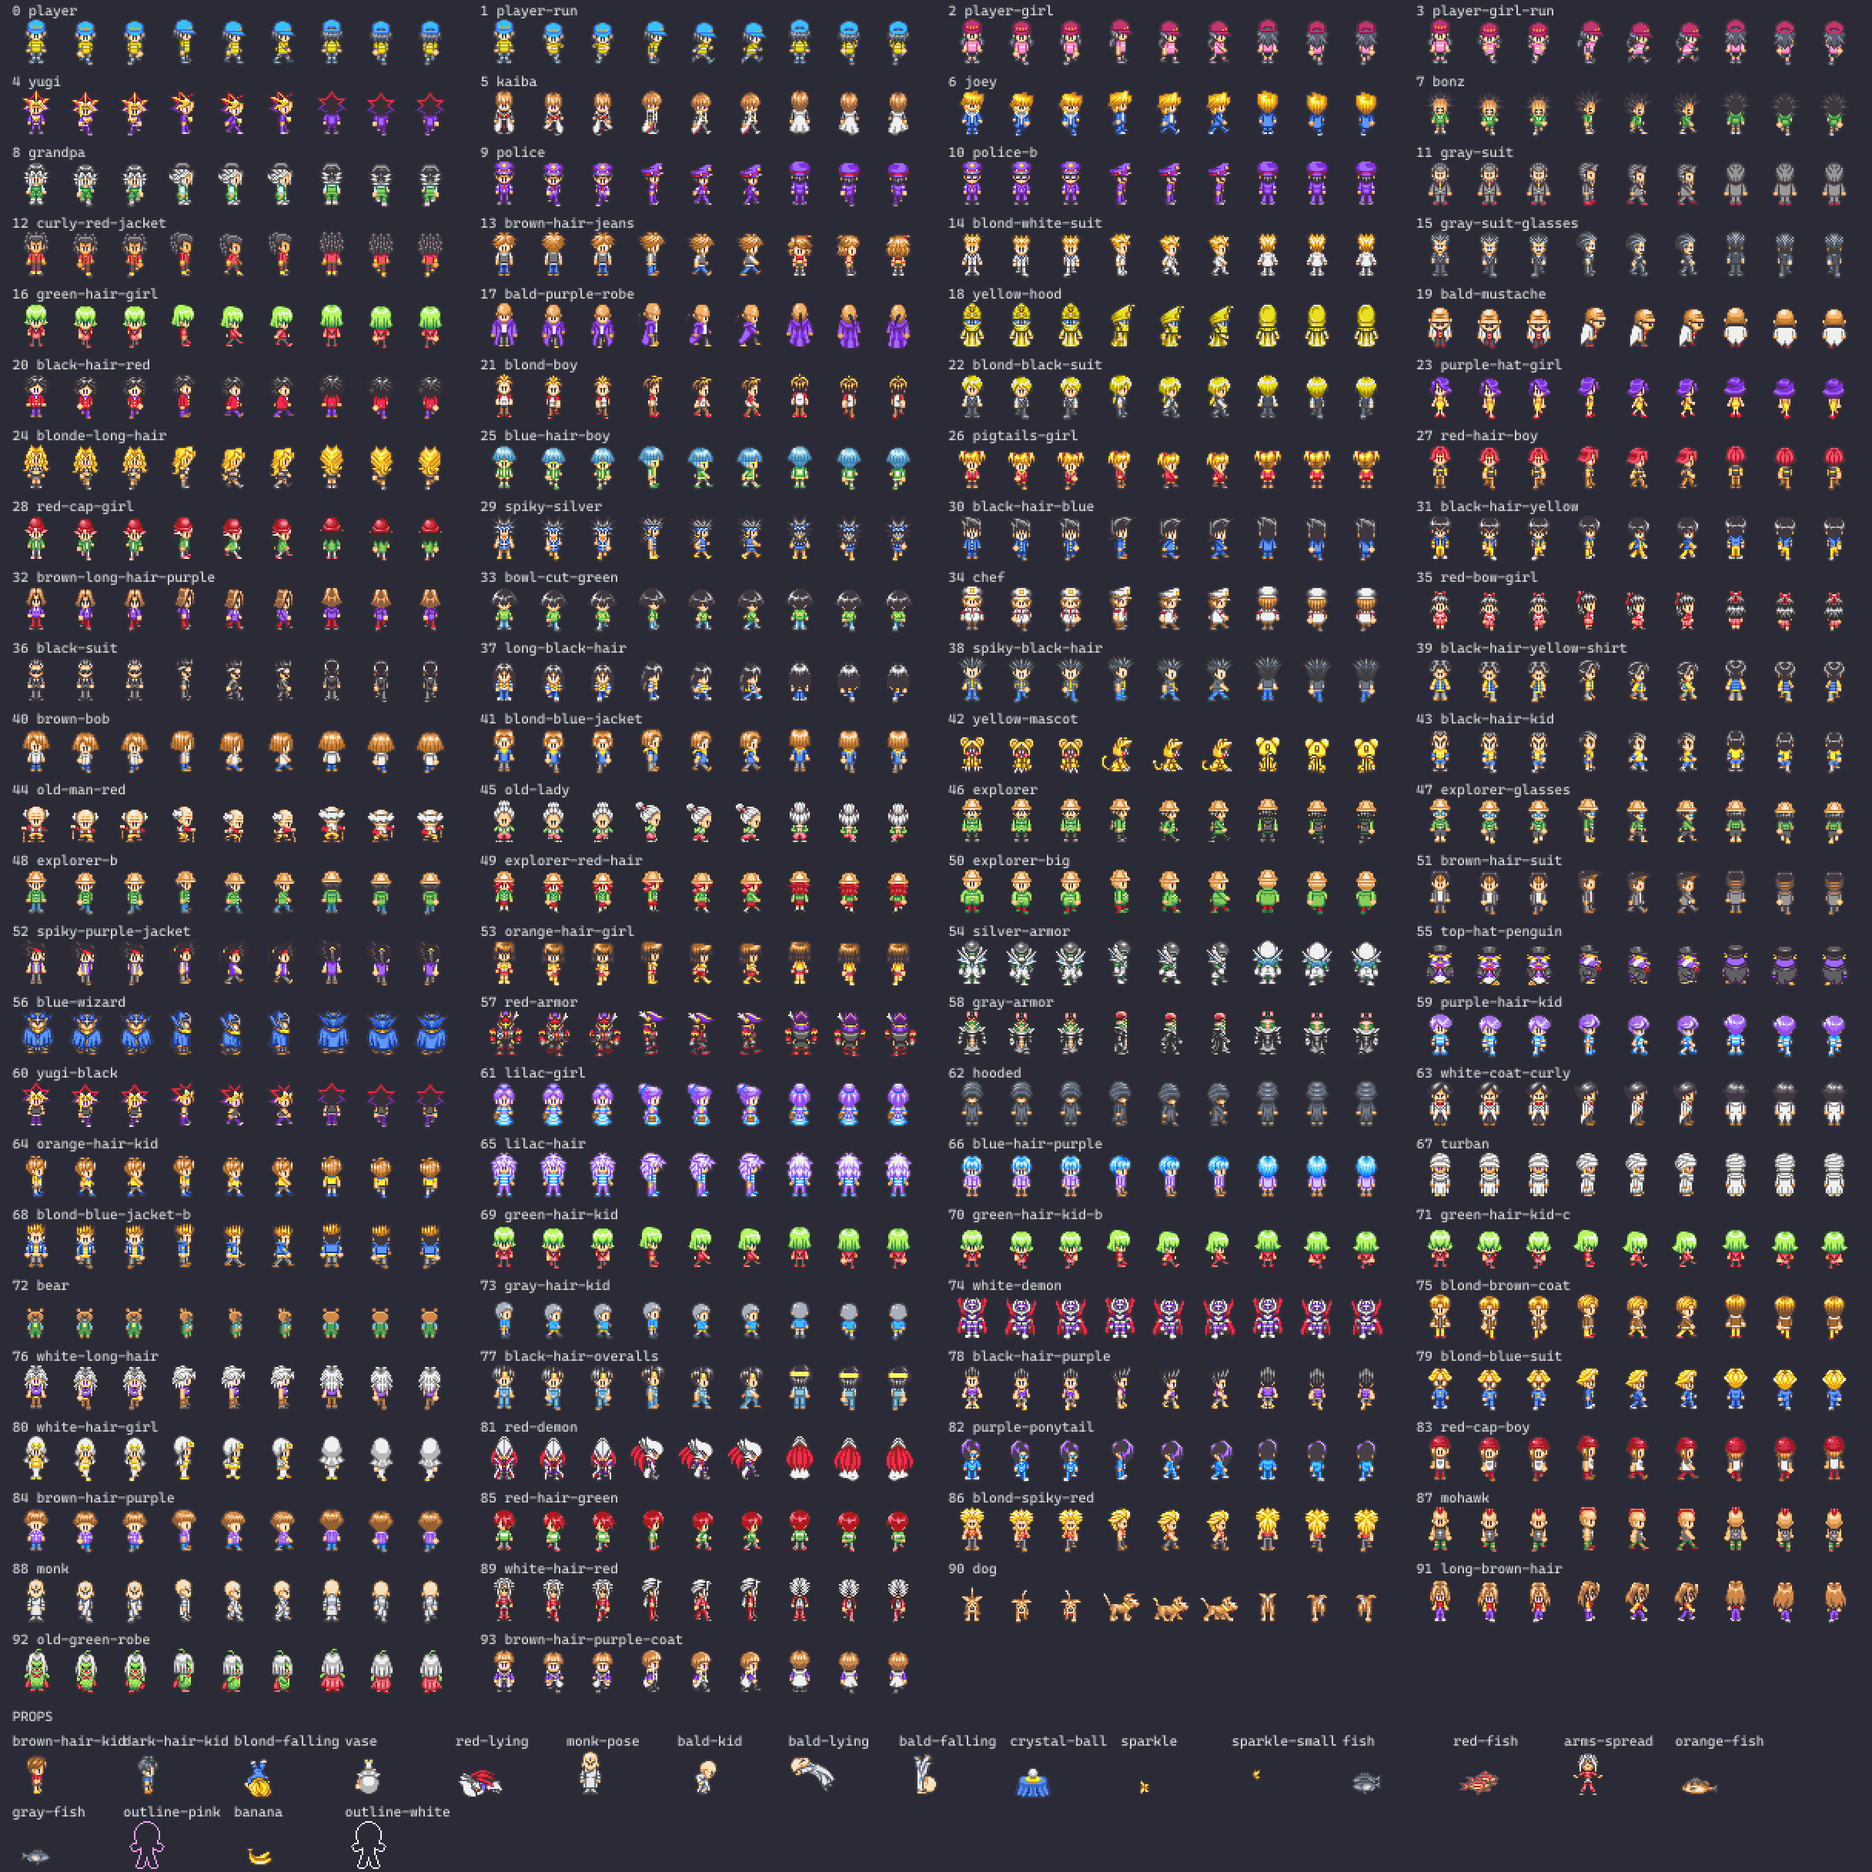
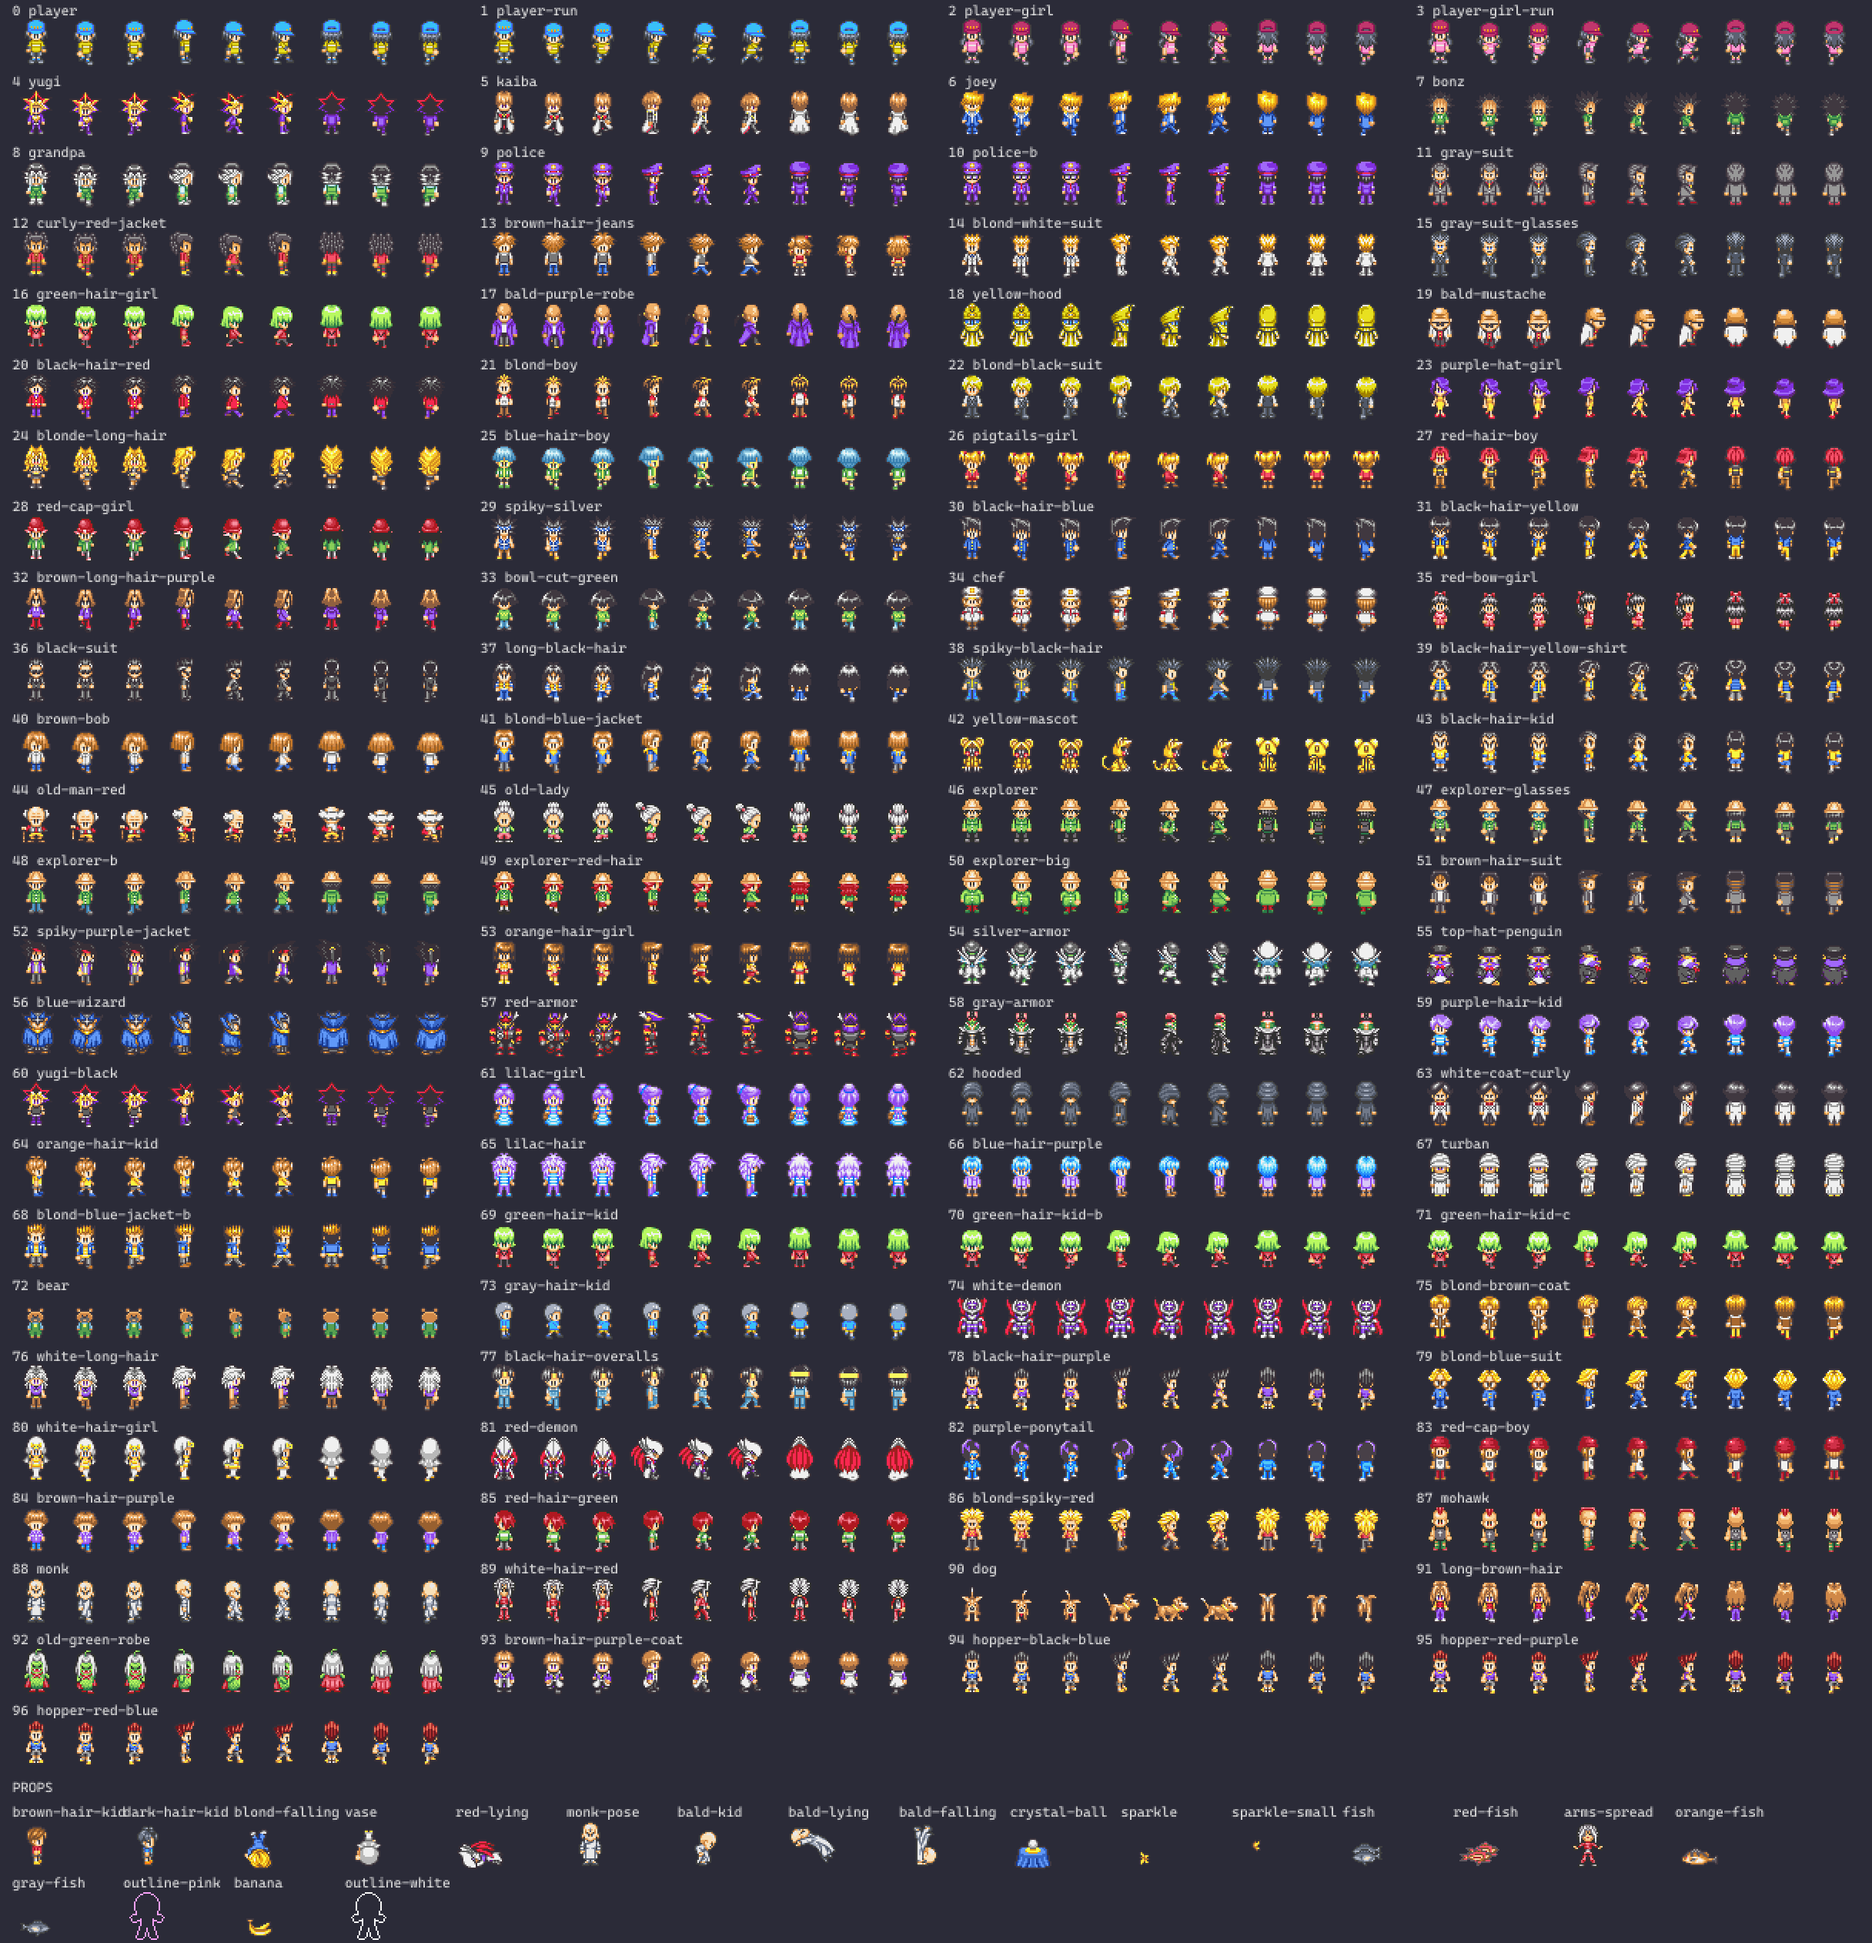
Four hedge ambushers: hair and shirt colour variants
The maze picks its ambusher at random from four: the black-hair-purple
kid in black/red hair x purple/blue shirt. build-characters can now make
recoloured variants ({ recolor: base, hair, shirt } swaps the base's
colour ramps from "recolors"; hair only on the head, outlines and eyes
kept), and each variant gets its own ambush sheet.

diff --git a/src/overworld/npcs.ts b/src/overworld/npcs.ts
@@ -33,5 +33,11 @@ export interface AmbushDef {
 
 // Hedge ambushers by map. Placeholder name and text.
 export const AMBUSHERS: Record<string, AmbushDef[]> = {
-  maze: [{ name: "Hedge Hopper", sprite: "black-hair-purple", text: "Gotcha! Nobody gets through my maze without a duel!" }],
+  // One of them at random each time: the same kid in 2 hair x 2 shirt colours (characters.json "recolors").
+  maze: [
+    { name: "Hedge Hopper", sprite: "black-hair-purple", text: "Gotcha! Nobody gets through my maze without a duel!" },
+    { name: "Bramble", sprite: "hopper-black-blue", text: "Surprise! I've been waiting in these bushes all day!" },
+    { name: "Briar", sprite: "hopper-red-purple", text: "Ha! You walked right into my hedge. Time to duel!" },
+    { name: "Thorn", sprite: "hopper-red-blue", text: "Nobody spots me until it's too late. Duel me!" },
+  ],
 };

diff --git a/docs/architecture.md b/docs/architecture.md
@@ -177,7 +177,8 @@ passes the `NetDuel` to `Duel`.
   front of the player; walking up or down, a vertical hedge beside the path ahead (3 tiles of its side) shakes and the
   NPC leaps out of it sideways onto the path, 64 px ahead (frames from `build-ambush`, leaf particles, the "!" balloon
   over the player). The scene keeps the player still while `busy`.
-  Placeholder until ambush duels exist: the NPC says their line, then leaps back into the hedge.
+  The ambusher is picked at random from the map's list. Placeholder until ambush duels exist: the NPC says their
+  line, then leaps back into the hedge.
 - Touch devices: a semi-transparent D-pad (diagonals, keeps steering when the finger slides off) and X button
   (`TouchPad.ts`), with the dialog between them. `TOUCH` in `src/ui/touch.ts` = coarse pointer (`&touch` forces it).
 - `WorldMenu`: overlay scene launched by Overworld (so it doesn't scroll). MENU (M) button top right opens the settings
@@ -326,7 +327,8 @@ Node scripts; `.ts` ones run directly with Node 24 type stripping (no tsx). CLAU
   - `build-characters`: `data/characters/reshef-sheet.png` (every Reshef of Destruction character, green cells on a
     purple grid) sliced per `data/characters/characters.json` (name → 3x3 block or explicit cells per direction,
     `nudge` = move single frames by pixels; `{ "sheet": "x.png" }` = a ready-made 96x96 sheet in the same layout, drawn
-    for this game: `player-girl`, `player-girl-run`) → `public/assets/overworld/characters.png`+`.json` (one row of 9
+    for this game: `player-girl`, `player-girl-run`; `{ "recolor": base, "hair": [...], "shirt": [...] }` = the base
+    with its hair / shirt colour ramps from `recolors` swapped: the `hopper-*` ambushers) → `public/assets/overworld/characters.png`+`.json` (one row of 9
     32x32 frames per character: down / side (facing right) / up × stand, step, step), `props.png`+`.json`,
     `balloons.png`+`.json` (16x16 reaction balloons: heart, dots, exclaim, anger, sweat, question), and the contact
     sheet `docs/characters.png` with every name.
